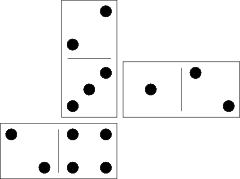
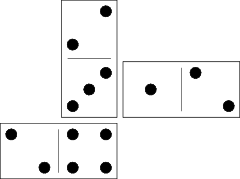
Fix transparency of diagrams.

Changed region(s): [[0.2333, 0.0, 1.0, 0.6704], [0.4667, 0.6983, 0.4958, 1.0]]

diff --git a/diagram.py b/diagram.py
@@ -38,6 +38,7 @@ OOO|
 
 
 def draw_pips(turtle, pips, cell_size):
+    turtle.fillcolor('black')
     pip_pattern = PIP_PATTERNS.splitlines()[pips*4+1:pips*4+4]
     pip_radius = cell_size*0.09
     turtle.up()
@@ -73,11 +74,14 @@ def draw_domino(turtle, domino, cell_size=50.0):
     turtle.forward(cell_size*0.45)
     turtle.right(90)
     turtle.down()
+    turtle.fillcolor('white')
+    turtle.begin_fill()
     for _ in range(2):
         turtle.forward(cell_size*1.9)
         turtle.right(90)
         turtle.forward(cell_size*.9)
         turtle.right(90)
+    turtle.end_fill()
 
     turtle.up()
     turtle.forward(cell_size*.95)
@@ -370,6 +374,14 @@ def draw_demo(turtle):
     turtle.forward(height*0.4)
     turtle.right(90)
     turtle.down()
+    turtle.fillcolor('ivory')
+    turtle.begin_fill()
+    for _ in range(2):
+        turtle.forward(width*0.95)
+        turtle.right(90)
+        turtle.forward(height*0.8)
+        turtle.right(90)
+    turtle.end_fill()
 
     state1 = """\
 3|6 2|0 2
